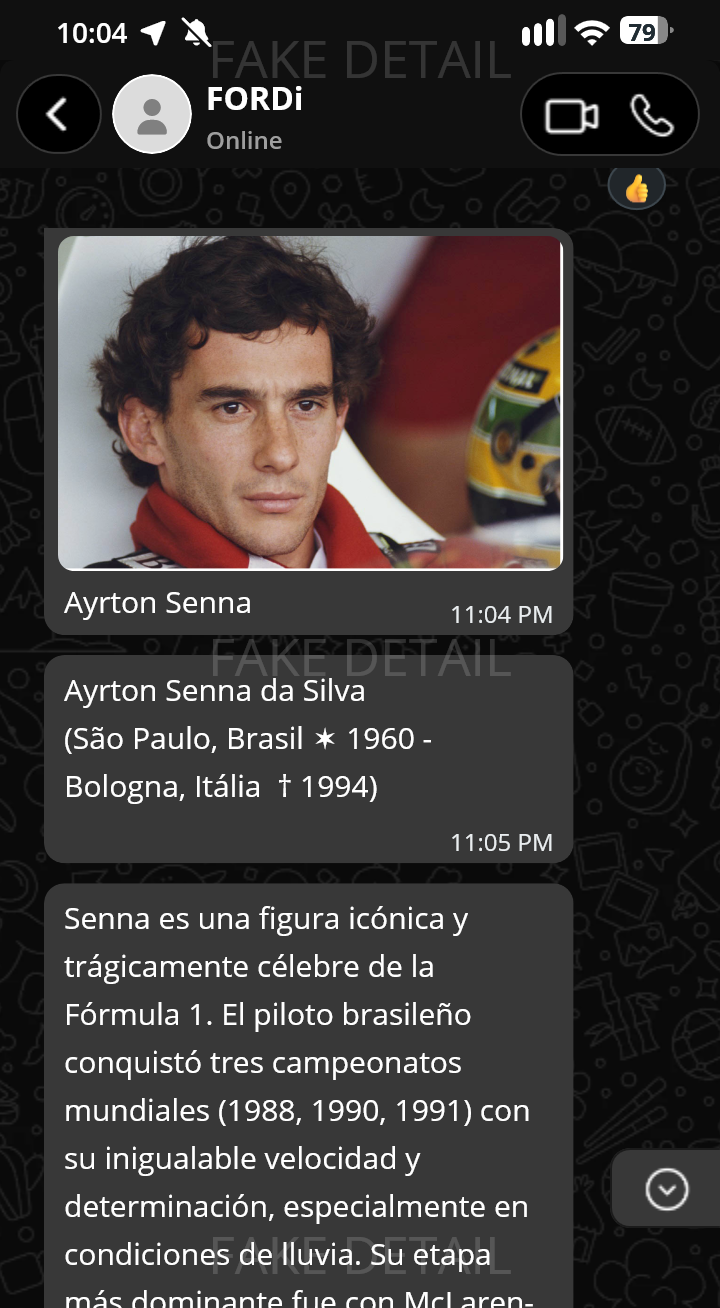
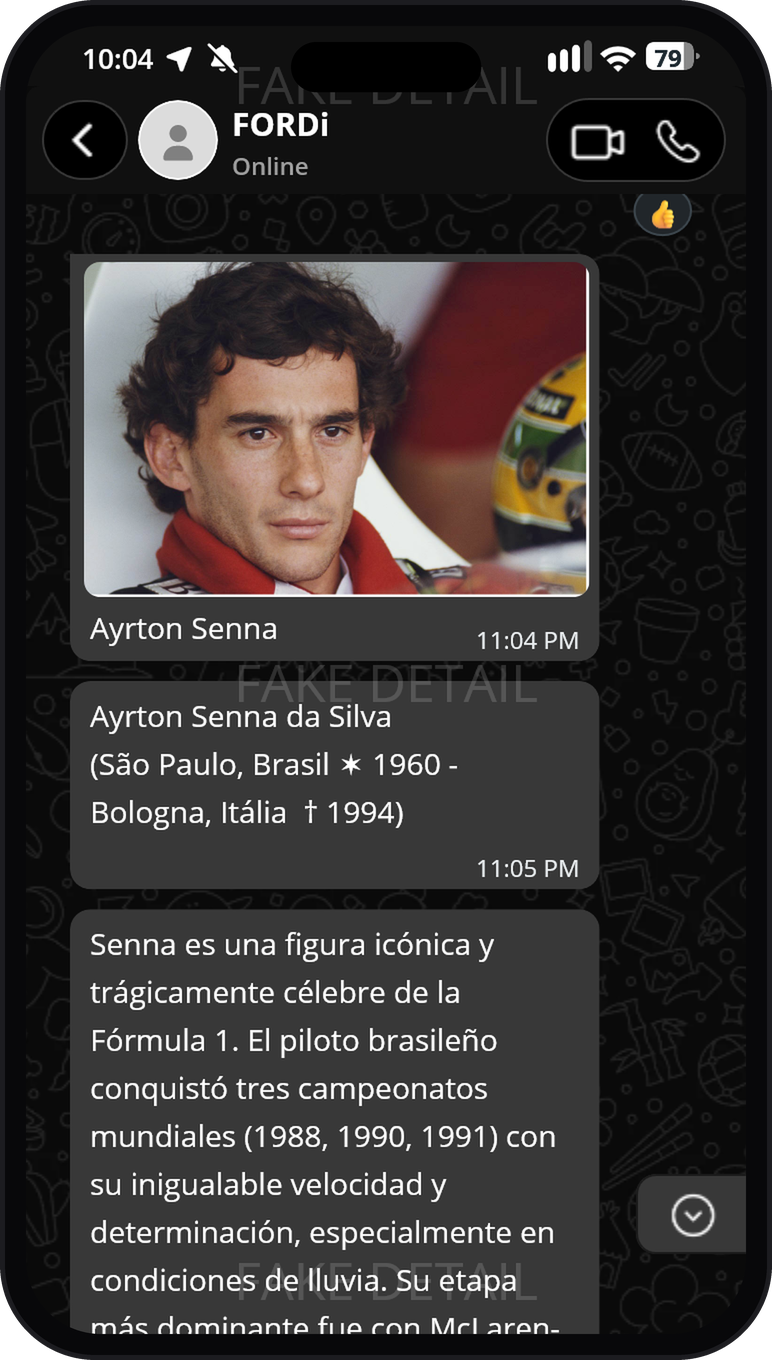
Add files via upload

Changed region(s): [[0.0, 0.0, 1.0, 1.0], [0.825, 0.8563, 1.0, 1.0], [0.0306, 0.0612, 0.1222, 0.1223]]

diff --git a/scripts/prepare_images.py b/scripts/prepare_images.py
@@ -20,6 +20,6 @@ def trim(im, pad=12):
 
 for p in sorted((R / 'assets-src').iterdir()):
     if p.suffix.lower() in ('.png', '.jpg', '.jpeg', '.pdf'):
-        im = trim(load(p)); im.thumbnail((2400, 1400))
+        im = load(p) if p.stem.endswith('_hero') else trim(load(p)); im.thumbnail((2400, 1400))
         im.save(R / 'assets' / (p.stem + '.webp'), quality=82, method=6)
         print(p.name, '->', im.size)
